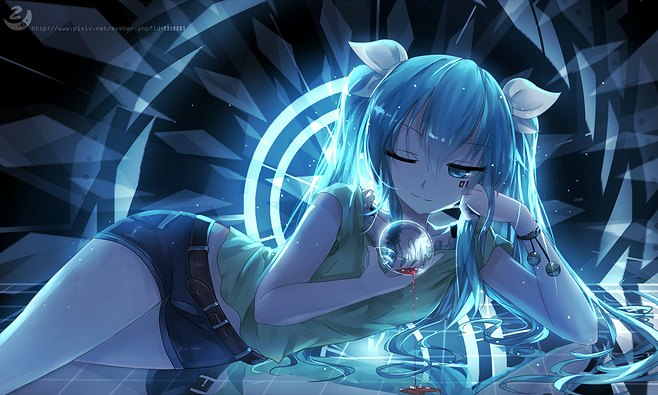
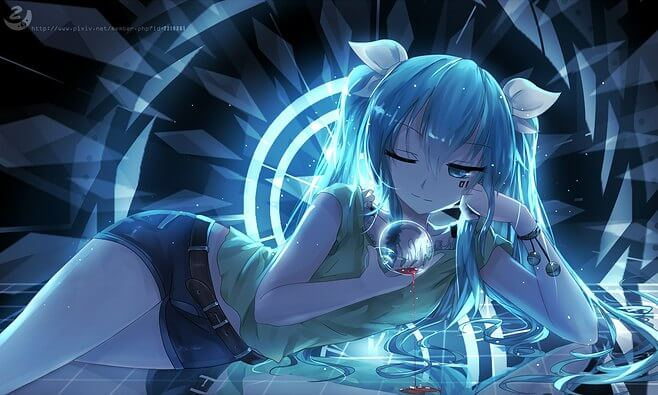
compress img

diff --git a/_posts/2017-02-19-vue-principle.md b/_posts/2017-02-19-vue-principle.md
@@ -1,6 +1,6 @@
 ---
 layout: post
-title:  Vue 的原理思想
+title:  Vue 的响应式原理
 date:   2017-02-19 20:58:00 +0800
 categories: JS
 tag: Vue

diff --git a/_posts/2017-02-20-vue-tranision.md b/_posts/2017-02-20-vue-tranision.md
@@ -1,0 +1,10 @@
+---
+layout: post
+title:  Vue 的过渡效果
+date:   2017-02-20 20:58:00 +0800
+categories: JS
+tag: Vue
+---
+
+* content
+{:toc}
